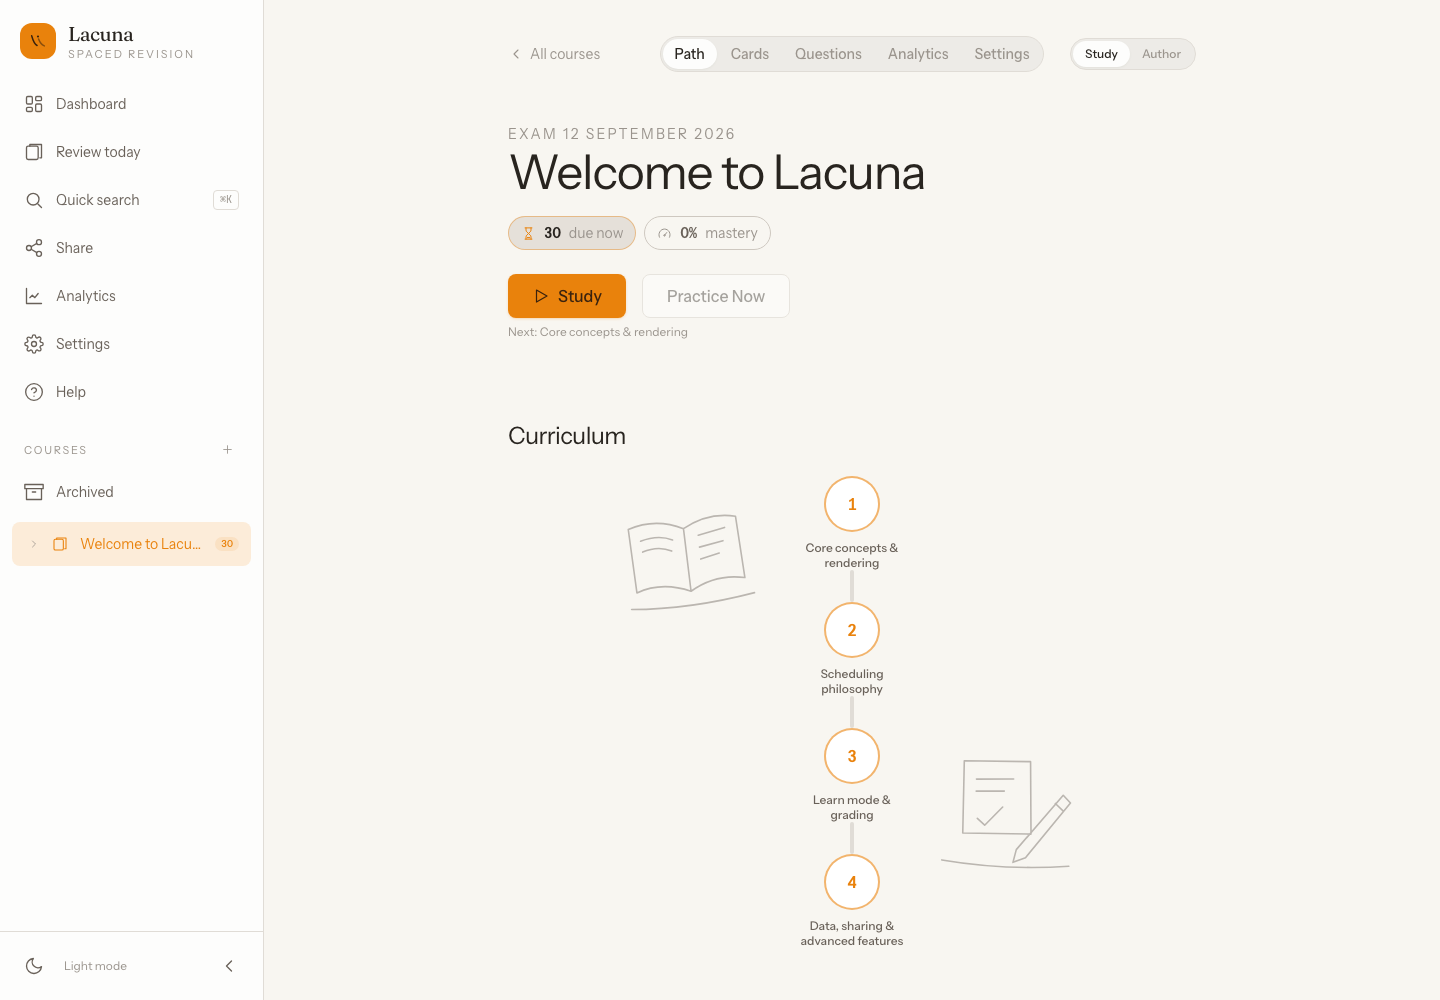
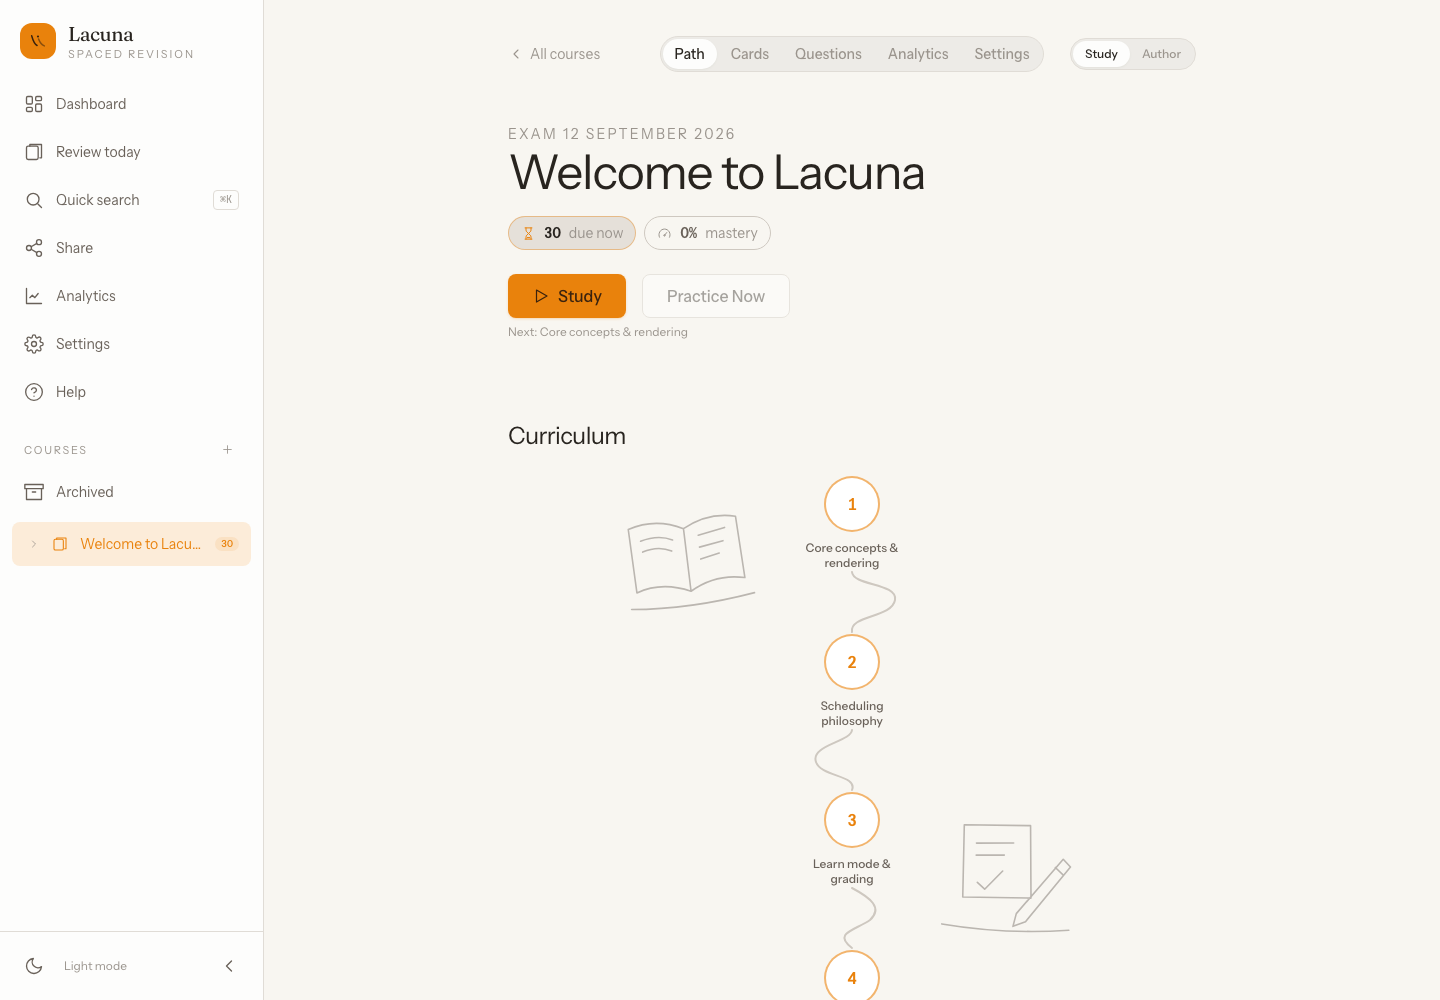
Draw the curriculum route with varied curved strokes

Changed region(s): [[0.5625, 0.589, 0.625, 0.961], [0.6562, 0.775, 0.75, 0.899]]

diff --git a/src/components/course/PathLine.tsx b/src/components/course/PathLine.tsx
@@ -1,39 +1,48 @@
-// The connecting segment drawn between two adjacent path nodes.
-//
-// The `completed` flag tints the segment with the accent for the portion of
-// the path the student has cleared; upcoming segments stay neutral. The
-// colour change is a plain CSS transition (see `transition-colors` below) so
-// a lesson completing while the page is mounted eases into its filled state
-// rather than snapping.
-//
-// British English throughout.
-
+// Curved ink strokes connect adjacent lesson stops. Completed stretches keep
+// the existing amber progress cue; the curve itself never represents progress.
 import { cn } from '../ui/cn';
 
+const trails = [
+  'M60 2 C61 16 106 13 103 30 C100 48 57 45 60 62',
+  'M60 2 C59 14 18 17 24 34 C29 49 66 47 60 62',
+  'M60 2 C79 12 91 22 78 34 C64 44 40 47 60 62',
+] as const;
+
 interface PathLineProps {
-  /** When true the segment leads into already-cleared content and is accent-tinted. */
   completed?: boolean;
-  /** Orientation of the segment; defaults to vertical for a scrolling path. */
   orientation?: 'vertical' | 'horizontal';
+  index?: number;
   className?: string;
 }
 
 export function PathLine({
   completed = false,
   orientation = 'vertical',
+  index = 0,
   className,
 }: PathLineProps) {
   const vertical = orientation === 'vertical';
-
   return (
-    <div
+    <svg
+      data-path-connector
       aria-hidden="true"
+      focusable="false"
+      viewBox={vertical ? '0 0 120 64' : '0 0 64 120'}
+      fill="none"
       className={cn(
-        'rounded-full transition-colors duration-150',
-        vertical ? 'h-8 w-1' : 'h-1 w-8',
-        completed ? 'bg-accent/60' : 'bg-line',
+        'pointer-events-none shrink-0 transition-colors duration-150',
+        vertical ? 'h-16 w-30' : 'h-30 w-16',
+        completed ? 'text-accent/60' : 'text-line-strong',
         className,
       )}
-    />
+    >
+      <path
+        d={trails[index % trails.length]}
+        transform={vertical ? undefined : 'translate(64 0) rotate(90)'}
+        stroke="currentColor"
+        strokeWidth="2"
+        strokeLinecap="round"
+      />
+    </svg>
   );
 }

diff --git a/tests/e2e/interface-polish.spec.ts b/tests/e2e/interface-polish.spec.ts
@@ -10,6 +10,11 @@ for (const width of [390, 1440]) {
     await page.getByRole('button', { name: /Exam in .* Welcome to Lacuna/ }).click();
     const drawings = page.locator('[data-path-drawing]');
     await expect(drawings).toHaveCount(2);
+    const connectors = page.locator('svg[data-path-connector]');
+    await expect(connectors).toHaveCount(3);
+    expect(await connectors.nth(0).locator('path').getAttribute('d')).not.toBe(
+      await connectors.nth(1).locator('path').getAttribute('d'),
+    );
     for (const drawing of await drawings.all()) {
       await expect(drawing).toHaveAttribute('aria-hidden', 'true');
       await expect(drawing).toHaveCSS('pointer-events', 'none');

diff --git a/src/components/course/CoursePathSegment.tsx b/src/components/course/CoursePathSegment.tsx
@@ -122,7 +122,7 @@ export function PathNodeWithLine({
           }
         />
       )}
-      {!isLast && <PathLine completed={segmentCompleted} />}
+      {!isLast && <PathLine completed={segmentCompleted} index={index} />}
     </div>
   );
 }

diff --git a/docs/SPEC.md b/docs/SPEC.md
@@ -177,7 +177,8 @@ Dashboard and course/lesson headings sit directly on the page without decorative
 frames. Course cards and functional grouping retain their boundaries. Empty-course and
 session-report states use small amber SVG line drawings in the landing page’s illustration
 style, without changing their controls or motion. The curriculum places up to three distinct study
-scenes beside alternate lesson stops; completed lessons tint their scene amber. Analytics empty
+scenes beside alternate lesson stops; completed lessons tint their scene amber. Curved SVG
+strokes connect stops, with amber indicating completed stretches. Analytics empty
 states use drawings appropriate to their subject, while populated charts remain clear.
 
 ### 3.3 Motion language

diff --git a/docs/CHANGES.md b/docs/CHANGES.md
@@ -2,7 +2,8 @@
 
 ## Unreleased — landing and method redesign
 
-- Added three non-repeating study scenes alongside the curriculum path, and distinct empty-state
+- Replaced straight curriculum connectors with varied ink-like curves, retaining amber for
+  completed stretches. Added three non-repeating study scenes alongside the curriculum path, and distinct empty-state
   drawings for analytics subjects. Share now uses a consistent text inset and drops the redundant
   “Collaborate” label. Drawings stay decorative and leave charts and controls unobstructed.
 
